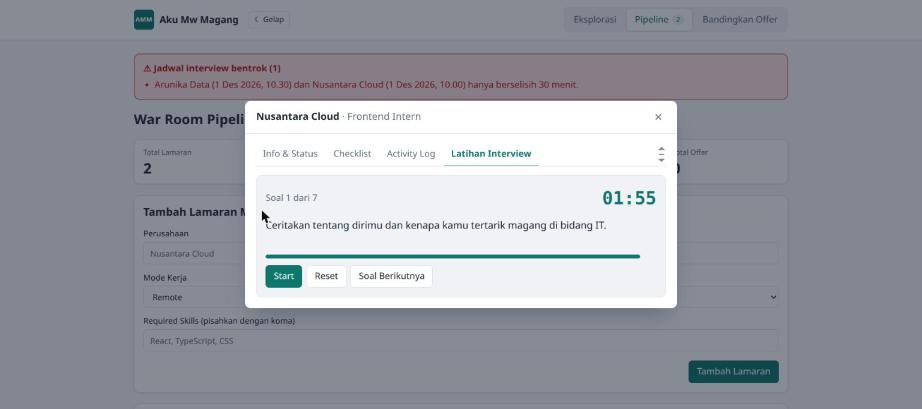
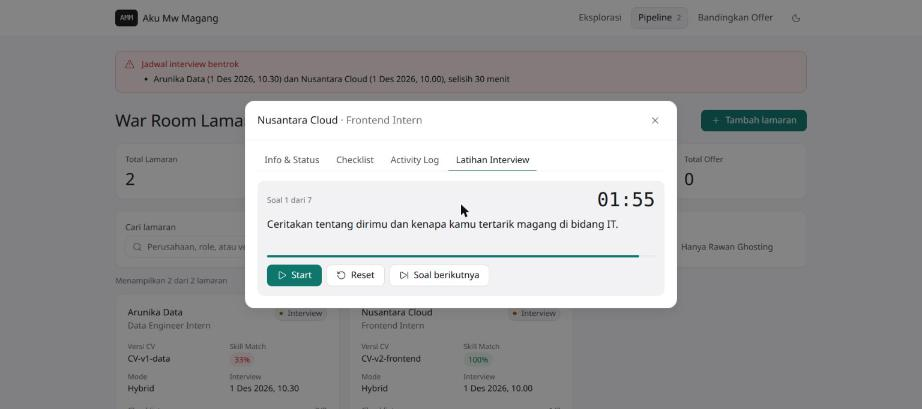
docs: perbarui laporan uji testcase ke tampilan terbaru

diff --git a/docs/TESTCASE.md b/docs/TESTCASE.md
@@ -1,8 +1,8 @@
 # Laporan Uji Testcase — Aku Mw Magang
 
-- **Tanggal uji:** 26 November 2026
+- **Tanggal uji:** 26 November 2026 (uji ulang setelah UI/UX Updates)
 - **Lingkungan:** Chrome (desktop), `npm run dev` (Vite), localStorage dikosongkan sebelum uji
-- **Commit yang diuji:** `main` setelah PR #29, ditambah perbaikan kecil di PR ini
+- **Commit yang diuji:** `main` setelah PR #40 (UI/UX Updates #35, tombol atur jadwal bentrok #38 & #40)
 - **Pembagian:** Wawa (TC 1, 2, 3, 9), Alin (TC 4, 8, 10 Comparator), Hendra (TC 5, 6, 7, 10 Undo)
 
 ## Ringkasan
@@ -28,11 +28,11 @@ Tambahan: `npx tsc --noEmit`, `npm run build`, dan `npm run lint` lolos; tidak a
 
 **Langkah**
 1. Buka tab Eksplorasi → muncul Loading lalu daftar lowongan dari Remotive API (16 lowongan).
-2. Putus koneksi ke API (Offline), klik **↻ Muat Ulang**.
-3. Klik **Pakai Fallback Lokal**.
+2. Putus koneksi ke API (Offline), klik **Muat ulang** di kanan atas daftar.
+3. Klik **Pakai fallback lokal**.
 
 **Hasil**
-- Loading tampil, lalu muncul state Error: *"Tidak bisa terhubung ke server. Periksa koneksi internet kamu."* dengan tombol **Coba Lagi** dan **Pakai Fallback Lokal**.
+- Loading tampil, lalu muncul state Error: *"Gagal memuat lowongan — Tidak bisa terhubung ke server. Periksa koneksi internet kamu."* dengan tombol **Coba lagi** dan **Pakai fallback lokal**.
 - Fallback memuat 15 lowongan dari `magang-fallback.json`.
 
 > Catatan: offline disimulasikan dengan membuat request ke `remotive.com` gagal (`TypeError: Failed to fetch`), sama seperti saat jaringan putus. Mode *Offline* DevTools juga memblokir request ke dev server lokal, jadi fallback paling baik dicoba setelah koneksi kembali atau saat hanya API eksternal yang gagal.
@@ -45,7 +45,7 @@ Tambahan: `npx tsc --noEmit`, `npm run build`, dan `npm run lint` lolos; tidak a
 
 **Langkah:** Tambah skill **Docker** di Profil Skill Kapten.
 
-**Hasil:** Match lowongan yang meminta Docker langsung naik tanpa reload:
+**Hasil:** Angka match lowongan yang meminta Docker langsung naik tanpa reload, dan chip Docker di kartu berubah jadi bercentang:
 
 | Lowongan | Sebelum | Sesudah |
 |---|---|---|
@@ -54,23 +54,21 @@ Tambahan: `npx tsc --noEmit`, `npm run build`, dan `npm run lint` lolos; tidak a
 | Machine Learning Intern | 0% | 25% |
 | Golang Backend Intern | 0% | 25% |
 
-Menambah `DOCKER` lagi ditolak: *Skill "DOCKER" sudah ada*.
-
 ![](testcase/tc2-skill-docker.jpg)
 
 ## TC 3 — Debounce Search
 
-**Langkah:** Ketik cepat `golang` (6 ketukan dalam ±12 ms) di kolom pencarian.
+**Langkah:** Ketik cepat `golang` (6 ketukan dalam ±21 ms) di kolom **Cari lowongan** (bisa juga tekan `/` untuk fokus ke kolom ini).
 
-**Hasil:** Daftar hanya berubah **1 kali**, **±404 ms** setelah ketukan terakhir (15 → 1 lowongan). Selama jeda muncul indikator "mencari…".
+**Hasil:** Daftar hanya berubah **1 kali**, **±406 ms** setelah ketukan terakhir (15 → 1 lowongan). Selama jeda muncul indikator "mencari…".
 
 ![](testcase/tc3-debounce-search.jpg)
 
 ## TC 4 — Anti-Duplikat & Focus
 
 **Langkah**
-1. Simpan lowongan *Frontend Intern — Nusantara Cloud* ke Wishlist.
-2. Di Form Manual isi `nusantara cloud` / `frontend intern` (huruf kecil), kursor di field Required Skills, lalu klik Tambah Lamaran.
+1. Simpan lowongan *Frontend Intern — Nusantara Cloud* lewat **Simpan ke Wishlist**.
+2. Buka tab Pipeline, klik **Tambah lamaran** (form dilipat secara default), isi `nusantara cloud` / `frontend intern` (huruf kecil), kursor di field Required Skills, lalu klik **Tambah Lamaran**.
 
 **Hasil**
 - Tombol berubah jadi **Sudah Dilamar** (disabled).
@@ -82,22 +80,22 @@ Menambah `DOCKER` lagi ditolak: *Skill "DOCKER" sudah ada*.
 
 ## TC 5 — State Machine
 
-**Langkah:** Pada *Nusantara Cloud* (WISHLIST): pindah ke APPLIED → SCREENING → INTERVIEW.
+**Langkah:** Pada *Nusantara Cloud* (WISHLIST): **Detail** → tab *Info & Status* → pindah ke APPLIED → SCREENING → INTERVIEW.
 
 **Hasil**
 - Dari WISHLIST, opsi tujuan hanya **Applied**; OFFER tidak tersedia (tidak bisa dipilih).
 - APPLIED tanpa data ditolak: *Versi CV wajib diisi*, *Tanggal melamar wajib diisi*. Setelah diisi (`CV-v2-frontend`, `2026-11-20`) berhasil.
 - INTERVIEW tanpa jadwal ditolak: *Jadwal interview wajib diisi*. Setelah diisi `2026-12-01T10:00` berhasil.
 - Dari INTERVIEW opsi berikutnya: Offer, Rejected, Ghosted.
-- Activity log mencatat setiap perpindahan status.
+- Activity log mencatat setiap perpindahan status (terbaru di atas).
 
 ![](testcase/tc5-state-machine-log.jpg)
 
 ## TC 6 — Simulasi Ghosting
 
-**Langkah:** Tambah *Arunika Data — Data Engineer Intern* (APPLIED), klik **Simulasi +15 Hari**.
+**Langkah:** Tambah *Arunika Data — Data Engineer Intern* (APPLIED) lewat form, klik **Simulasi +15 Hari** di kartunya.
 
-**Hasil:** Badge **Rawan Ghosting** muncul, kartu statistik Rawan Ghosting naik **0 → 1**, dan toggle *Hanya Rawan Ghosting* hanya menampilkan Arunika Data.
+**Hasil:** Badge **Rawan Ghosting** muncul di kartu, kartu statistik Rawan Ghosting naik **0 → 1**, dan toggle *Hanya Rawan Ghosting* hanya menampilkan Arunika Data.
 
 | Statistik | Badge |
 |---|---|
@@ -107,9 +105,18 @@ Menambah `DOCKER` lagi ditolak: *Skill "DOCKER" sudah ada*.
 
 **Langkah:** Pindahkan Arunika Data ke INTERVIEW `2026-12-01T10:30` (Nusantara Cloud `10:00`), lalu set filter status **Wishlist**.
 
-**Hasil:** Banner *"Jadwal interview bentrok (1) — Arunika Data (10.30) dan Nusantara Cloud (10.00) hanya berselisih 30 menit"* tampil, dan **tetap tampil** saat filter Wishlist aktif (0 kartu tampil).
+**Hasil:** Banner *"Jadwal interview bentrok — Nusantara Cloud (10.00) dan Arunika Data (10.30), selisih 30 menit"* tampil, dan **tetap tampil** saat filter Wishlist aktif (0 kartu tampil).
 
-![](testcase/tc7-banner-bentrok-filter.jpg)
+![](testcase/tc7-1-banner-bentrok-filter.png)
+
+**Tambahan — tombol Atur jadwal:** di samping banner ada tombol **Atur jadwal** yang membuka dialog berisi semua lamaran yang bentrok. Diuji dengan 3 interview (10.00, 10.30, 10.45, jadi 3 pasangan bentrok):
+- Setiap baris menampilkan "Bentrok dengan X (N menit)" dan ringkasan *Masih ada 3 bentrok*.
+- Ojekin diubah ke 13.00 → sisa 1 bentrok; Arunika Data diubah ke 15.00 → *Tidak ada jadwal bentrok*.
+- **Simpan 2 jadwal** → banner hilang, dan activity log tiap lamaran mencatat *"Jadwal interview diubah: … → …"*.
+
+| Dialog dibuka | Setelah jadwal diubah |
+|---|---|
+| ![](testcase/tc7-2-dialog-atur-jadwal.jpg) | ![](testcase/tc7-3-dialog-tanpa-bentrok.jpg) |
 
 ## TC 8 — Checklist & Refresh
 
@@ -123,17 +130,17 @@ Menambah `DOCKER` lagi ditolak: *Skill "DOCKER" sudah ada*.
 
 ## TC 9 — Timer Cleanup
 
-**Langkah:** Start Prep Timer (±3 detik → 01:57), tutup modal, tunggu 1,5 detik, buka lagi lalu Start.
+**Langkah:** Tab *Latihan Interview* → **Start** (±3 detik → 01:57), tutup modal, tunggu 1,5 detik, buka lagi lalu **Start**.
 
-**Hasil:** Saat dibuka ulang timer kembali 02:00. Dalam 5 detik timer turun tepat **5 detik** (02:00 → 01:55), tidak 2x cepat. Pause menghentikan hitungan. Tidak ada error console.
+**Hasil:** Saat dibuka ulang timer kembali 02:00. Dalam 5 detik timer turun tepat **5 detik** (02:00 → 01:55), tidak 2x cepat. **Pause** menghentikan hitungan. Tidak ada error console.
 
 ![](testcase/tc9-timer-dibuka-ulang.jpg)
 
 ## TC 10 — Undo & Comparator
 
 **Undo**
-- Hapus Nusantara Cloud → toast *"Lamaran Nusantara Cloud dihapus — UNDO"*. Klik Undo < 5 detik → data kembali **identik** (2 checklist, 4 activity log, posisi semula), banner bentrok muncul lagi.
-- Hapus 2x berturut-turut (Temp Corp A, 3 detik kemudian Temp Corp B): toast masih tampil di detik ke-5,9 (timer lama sudah di-`clearTimeout`) dan baru hilang ±5 detik setelah hapus kedua.
+- Hapus Nusantara Cloud (ikon tempat sampah) → toast *"Lamaran Nusantara Cloud dihapus — Undo"*. Klik **Undo** < 5 detik → data kembali **identik** (2 checklist, 4 activity log, posisi semula), banner bentrok muncul lagi.
+- Hapus 2x berturut-turut (Temp Corp A, 3 detik kemudian Temp Corp B): toast masih tampil di detik ke-5,8 (timer lama sudah di-`clearTimeout`) dan baru hilang ±5 detik setelah hapus kedua.
 
 **Comparator**
 - Sebelum ada offer: pesan *"Butuh minimal 2 lamaran berstatus Offer…"*.
@@ -156,7 +163,8 @@ Hasil aplikasi sama dengan hitungan manual.
 
 ---
 
-## Perbaikan yang ditemukan saat uji
+## Riwayat perbaikan dari hasil uji
 
-1. **TC 1:** setelah lowongan berhasil dimuat tidak ada tombol untuk fetch ulang, padahal skenario meminta Offline lalu *Retry*. Ditambahkan tombol **↻ Muat Ulang** di atas daftar lowongan.
-2. Sub-tab modal Detail Lamaran memunculkan scrollbar vertikal kecil; diperbaiki dengan `overflow-y: hidden`.
+1. **TC 1 (PR #31):** setelah lowongan berhasil dimuat tidak ada tombol untuk fetch ulang, padahal skenario meminta Offline lalu *Retry*. Ditambahkan tombol **Muat ulang** di atas daftar lowongan.
+2. **PR #31:** sub-tab modal Detail Lamaran memunculkan scrollbar vertikal kecil; diperbaiki dengan `overflow-y: hidden`.
+3. **TC 7 (PR #38, #40):** banner bentrok sebelumnya hanya memberi tahu tanpa jalan keluar, dan lamaran INTERVIEW tidak bisa ganti jadwal. Ditambahkan tombol **Atur jadwal** di banner (dialog ubah semua jadwal yang bentrok sekaligus) dan editor jadwal di detail lamaran.
